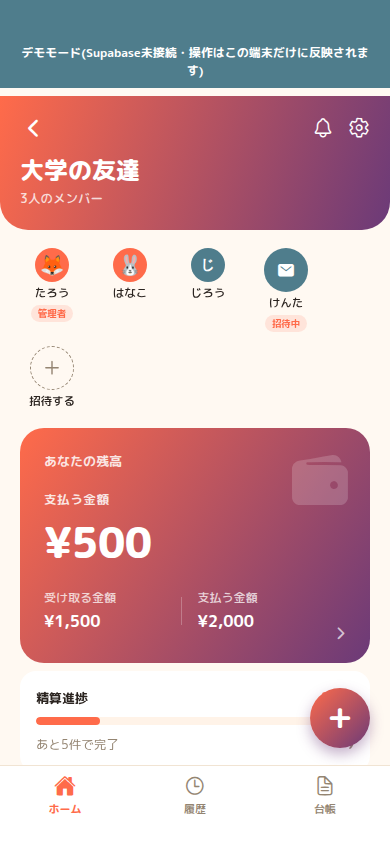
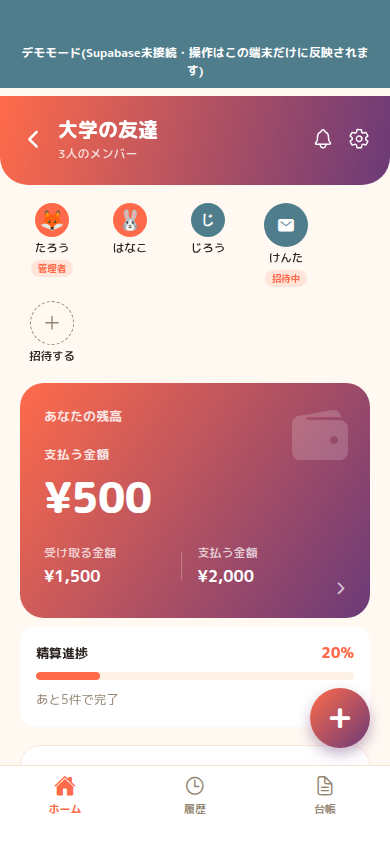
kashikari: グループ名の位置を＜の横に修正
「グループ名の位置がおかしい。＜の横に持ってきて」という指摘への対応。
スキーマ変更なし。

前回のヘッダーのグラデーション化で、戻る矢印の行とグループ名の行を
別々にしていたが、参考画像は矢印のすぐ右にグループ名(+人数)が来る
1行のレイアウトだった。矢印・グループ名列(flex:1)・通知/設定アイコンを
横一列に並べる構成に変更した(GroupScreen.tsx / DemoGroupScreen.tsx)。

tsc --noEmit / expo export --platform web(通常+デモモード)とも
問題なし。Playwrightでホーム/履歴/台帳タブすべてで新しいヘッダー
レイアウトを確認済み。

Claude-Session: https://claude.ai/code/session_016w6H5fipiVvbtfX7sgu87W

Changed region(s): [[0.0, 0.1232, 1.0, 0.8934], [0.8923, 0.1232, 0.9538, 0.1848], [0.8, 0.1232, 0.8615, 0.1848]]

diff --git a/personal-side-projects/kashikari/mobile/src/screens/GroupScreen.tsx b/personal-side-projects/kashikari/mobile/src/screens/GroupScreen.tsx
@@ -267,11 +267,18 @@ export default function GroupScreen({ group, meId, justCreated, onBack, onLeave,
           グラデーションだったが、参考画像に合わせてヘッダー自体にも
           ブランドのグラデーションを敷いた。グループアイコンの絵文字
           (Mark)は参考画像に無いため非表示にしたが、タップでアイコンを
-          変更する機能自体はタイトル部分に残している。 */}
+          変更する機能自体はタイトル部分に残している。
+          「グループ名の位置がおかしい、＜の横に」という指摘を受け、
+          戻る矢印とタイトルを別の行に分けていたのをやめ、矢印のすぐ
+          右にタイトルが来る1行のレイアウトに変更した。 */}
       <LinearGradient colors={[colors.accent, colors.plum]} start={{ x: 0, y: 0 }} end={{ x: 1, y: 1 }} style={styles.headerGradient}>
         <View style={styles.headerRow}>
           <Pressable onPress={onBack} hitSlop={10} accessibilityLabel={t.group.back}>
             <Ionicons name="chevron-back" size={26} color="#fff" />
+          </Pressable>
+          <Pressable onPress={() => setGroupIconPickerOpen(true)} style={styles.titleCol}>
+            <Text style={styles.title} numberOfLines={1}>{group.name}</Text>
+            <Text style={styles.memberCount}>{t.group.memberCount(members.length)}</Text>
           </Pressable>
           <View style={styles.headerRightRow}>
             <Pressable onPress={() => setNotifToastVisible(true)} hitSlop={10}>
@@ -282,10 +289,6 @@ export default function GroupScreen({ group, meId, justCreated, onBack, onLeave,
             </Pressable>
           </View>
         </View>
-        <Pressable onPress={() => setGroupIconPickerOpen(true)} style={styles.titleRow}>
-          <Text style={styles.title}>{group.name}</Text>
-          <Text style={styles.memberCount}>{t.group.memberCount(members.length)}</Text>
-        </Pressable>
       </LinearGradient>
 
       <View style={styles.memberStrip}>
@@ -474,17 +477,17 @@ const styles = StyleSheet.create({
   headerGradient: {
     paddingTop: 54,
     paddingHorizontal: 20,
-    paddingBottom: 22,
+    paddingBottom: 20,
     borderBottomLeftRadius: 28,
     borderBottomRightRadius: 28,
     marginHorizontal: -20,
     marginBottom: 18,
   },
-  headerRow: { flexDirection: 'row', justifyContent: 'space-between', alignItems: 'center' },
+  headerRow: { flexDirection: 'row', alignItems: 'center' },
   headerRightRow: { flexDirection: 'row', alignItems: 'center', gap: 14 },
-  titleRow: { marginTop: 10 },
-  title: { ...fonts.display, fontSize: 24, color: '#fff' },
-  memberCount: { ...fonts.bodyMedium, fontSize: 12.5, color: 'rgba(255,255,255,0.8)', marginTop: 2 },
+  titleCol: { flex: 1, marginHorizontal: 12 },
+  title: { ...fonts.display, fontSize: 20, color: '#fff' },
+  memberCount: { ...fonts.bodyMedium, fontSize: 12, color: 'rgba(255,255,255,0.8)', marginTop: 1 },
   memberStrip: { flexDirection: 'row', flexWrap: 'wrap', gap: 14, marginBottom: 18 },
   memberSlot: { alignItems: 'center', width: 64, gap: 3 },
   memberSlotName: { ...fonts.bodyMedium, fontSize: 11.5, color: colors.ink, maxWidth: 62 },

diff --git a/personal-side-projects/kashikari/mobile/src/demo/DemoGroupScreen.tsx b/personal-side-projects/kashikari/mobile/src/demo/DemoGroupScreen.tsx
@@ -285,6 +285,10 @@ export default function DemoGroupScreen({ onBack, onOpenSettings }: { onBack: ()
           <Pressable onPress={onBack} hitSlop={10} accessibilityLabel={t.group.back}>
             <Ionicons name="chevron-back" size={26} color="#fff" />
           </Pressable>
+          <Pressable onPress={() => setGroupIconPickerOpen(true)} style={styles.titleCol}>
+            <Text style={styles.title} numberOfLines={1}>{group.name}</Text>
+            <Text style={styles.memberCount}>{t.group.memberCount(members.length)}</Text>
+          </Pressable>
           <View style={styles.headerRightRow}>
             <Pressable onPress={() => setNotifToastVisible(true)} hitSlop={10}>
               <Ionicons name="notifications-outline" size={22} color="#fff" />
@@ -294,10 +298,6 @@ export default function DemoGroupScreen({ onBack, onOpenSettings }: { onBack: ()
             </Pressable>
           </View>
         </View>
-        <Pressable onPress={() => setGroupIconPickerOpen(true)} style={styles.titleRow}>
-          <Text style={styles.title}>{group.name}</Text>
-          <Text style={styles.memberCount}>{t.group.memberCount(members.length)}</Text>
-        </Pressable>
       </LinearGradient>
 
       <View style={styles.memberStrip}>
@@ -519,11 +519,11 @@ const styles = StyleSheet.create({
     marginHorizontal: -20,
     marginBottom: 18,
   },
-  headerRow: { flexDirection: 'row', justifyContent: 'space-between', alignItems: 'center' },
+  headerRow: { flexDirection: 'row', alignItems: 'center' },
   headerRightRow: { flexDirection: 'row', alignItems: 'center', gap: 14 },
-  titleRow: { marginTop: 10 },
-  title: { ...fonts.display, fontSize: 24, color: '#fff' },
-  memberCount: { ...fonts.bodyMedium, fontSize: 12.5, color: 'rgba(255,255,255,0.8)', marginTop: 2 },
+  titleCol: { flex: 1, marginHorizontal: 12 },
+  title: { ...fonts.display, fontSize: 20, color: '#fff' },
+  memberCount: { ...fonts.bodyMedium, fontSize: 12, color: 'rgba(255,255,255,0.8)', marginTop: 1 },
   memberStrip: { flexDirection: 'row', flexWrap: 'wrap', gap: 14, marginBottom: 18 },
   memberSlot: { alignItems: 'center', width: 64, gap: 3 },
   memberSlotName: { ...fonts.bodyMedium, fontSize: 11.5, color: colors.ink, maxWidth: 62 },
